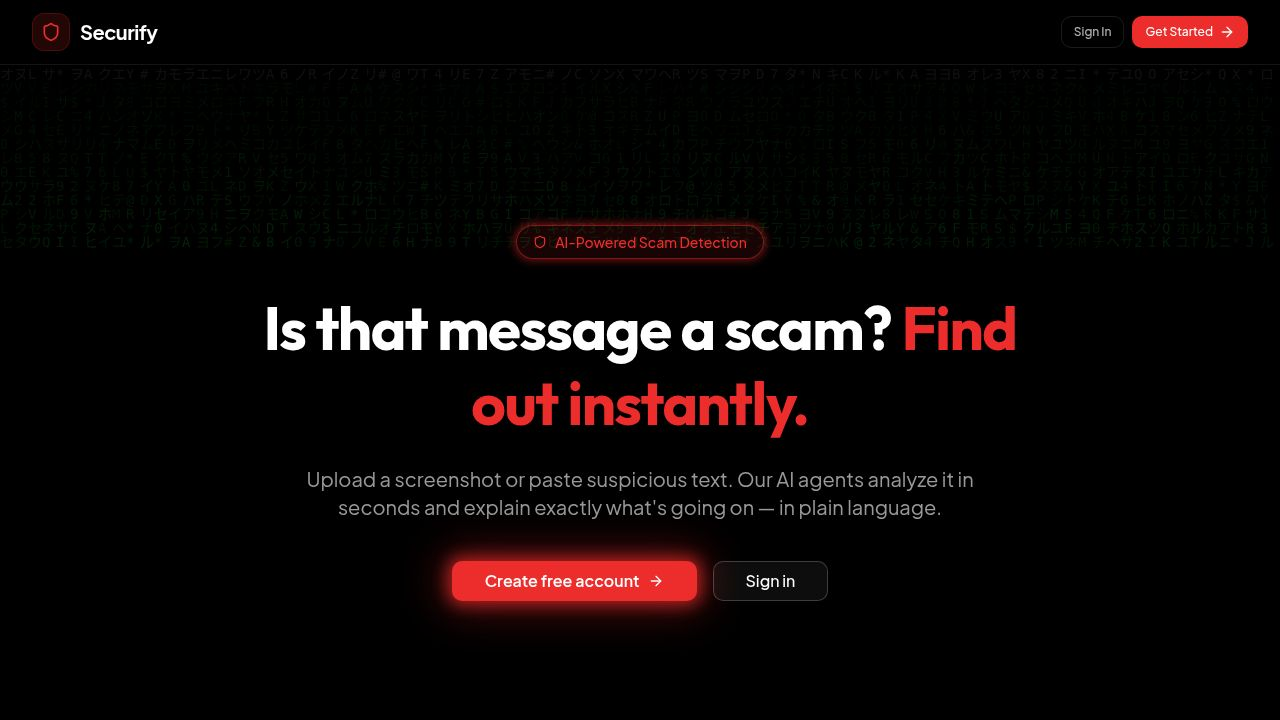
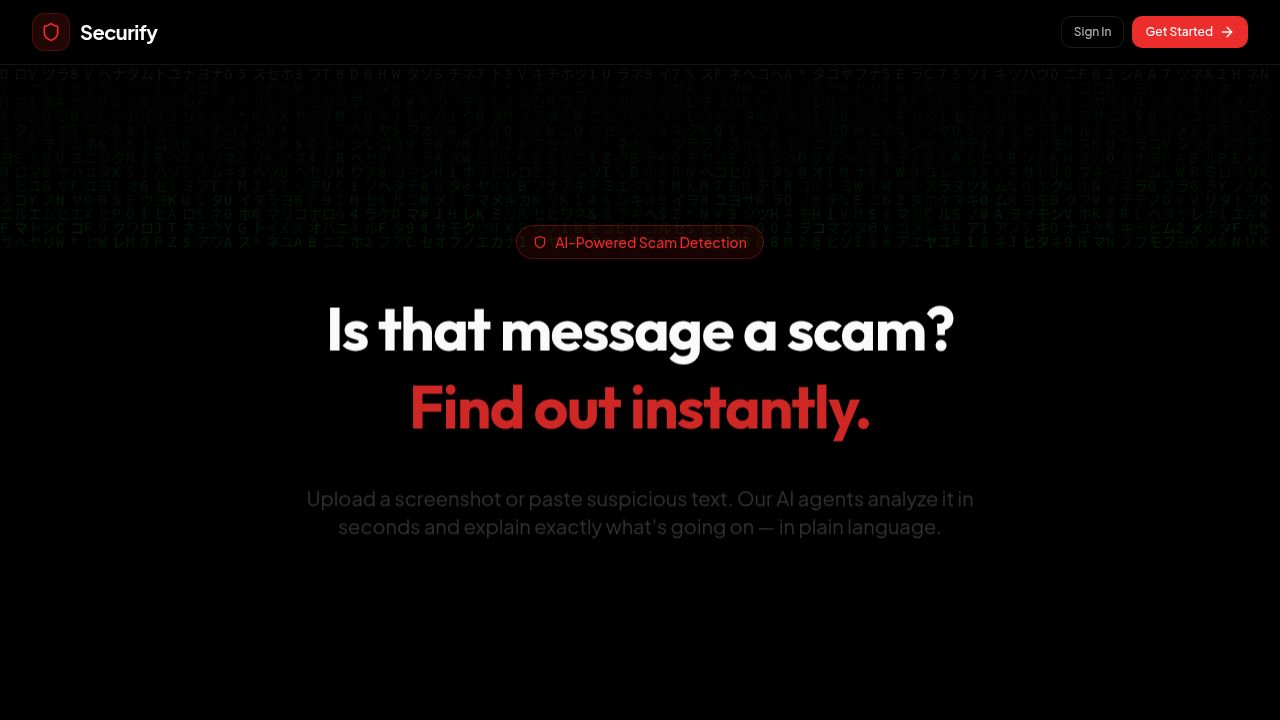
feat: animate hero headline text for dramatic first impression
Task: Animate the hero headline text for a more dramatic first impression

## What was done
- Added @keyframes hero-fade-up animation in artifacts/securify/src/index.css
  - Fades in from opacity 0 with a 28px upward translate
  - Uses a snappy cubic-bezier(0.22, 1, 0.36, 1) easing for a cinematic feel
- Added .hero-anim utility class applying the 0.75s animation with `both` fill-mode
- Respected prefers-reduced-motion: disabled for .hero-anim, .badge-glow.hero-anim, .cta-glow, and .badge-glow
- Updated artifacts/securify/src/pages/landing.tsx hero section:
  - Split h1 into two block spans so each line animates independently
  - Applied staggered animationDelay values to 5 elements:
    - Badge: 0s
    - H1 line 1 ("Is that message a scam?"): 0.18s
    - H1 line 2 ("Find out instantly."): 0.36s
    - Subtitle paragraph: 0.56s
    - CTA button row: 0.74s

## Fix after code review
- The badge element has both badge-glow and hero-anim classes; since both set the
  `animation` shorthand, hero-anim was overriding badge-glow-pulse
- Added .badge-glow.hero-anim rule combining both animations (hero-fade-up +
  badge-glow-pulse delayed by 0.75s so pulse starts after entrance finishes)
- Added .badge-glow.hero-anim to prefers-reduced-motion block to handle higher
  specificity correctly

Replit-Task-Id: c5c1d80e-b9e3-4418-8701-b8a1dbd64e4d

Changed region(s): [[0.25, 0.6417, 0.75, 0.8861], [0.1875, 0.4278, 0.8125, 0.6111], [0.375, 0.3056, 0.5938, 0.3667]]

diff --git a/artifacts/securify/src/pages/landing.tsx b/artifacts/securify/src/pages/landing.tsx
@@ -83,18 +83,18 @@ export function Landing() {
           </div>
           <div className="absolute inset-0 z-[1] bg-gradient-to-b from-black/60 via-black/40 to-black" />
           <div className="relative z-[2] container mx-auto px-4 md:px-8 py-28 md:py-40 text-center max-w-4xl">
-            <div className="badge-glow inline-flex items-center gap-2 bg-primary/10 border border-primary/30 text-primary text-sm font-medium px-4 py-1.5 rounded-full mb-8">
+            <div className="hero-anim badge-glow inline-flex items-center gap-2 bg-primary/10 border border-primary/30 text-primary text-sm font-medium px-4 py-1.5 rounded-full mb-8" style={{ animationDelay: "0s" }}>
               <Shield className="h-3.5 w-3.5" />
               AI-Powered Scam Detection
             </div>
             <h1 className="text-4xl md:text-6xl font-display font-black tracking-tight mb-6 leading-tight text-white drop-shadow-lg">
-              Is that message a scam?{" "}
-              <span className="text-primary">Find out instantly.</span>
+              <span className="hero-anim block" style={{ animationDelay: "0.18s" }}>Is that message a scam?</span>
+              <span className="hero-anim block text-primary" style={{ animationDelay: "0.36s" }}>Find out instantly.</span>
             </h1>
-            <p className="text-xl text-white/60 mb-10 max-w-2xl mx-auto">
+            <p className="hero-anim text-xl text-white/60 mb-10 max-w-2xl mx-auto" style={{ animationDelay: "0.56s" }}>
               Upload a screenshot or paste suspicious text. Our AI agents analyze it in seconds and explain exactly what's going on — in plain language.
             </p>
-            <div className="flex flex-col sm:flex-row gap-4 justify-center">
+            <div className="hero-anim flex flex-col sm:flex-row gap-4 justify-center" style={{ animationDelay: "0.74s" }}>
               <Link href="/sign-up">
                 <Button size="lg" className="cta-glow gap-2 text-base px-8 bg-primary hover:bg-primary/90 text-white border-primary/70 font-semibold">
                   Create free account

diff --git a/artifacts/securify/src/index.css b/artifacts/securify/src/index.css
@@ -251,9 +251,30 @@
   border-color: hsl(0 84% 55% / 0.35);
 }
 
+.badge-glow.hero-anim {
+  animation: hero-fade-up 0.75s cubic-bezier(0.22, 1, 0.36, 1) both, badge-glow-pulse 2.5s 0.75s ease-in-out infinite;
+}
+
+@keyframes hero-fade-up {
+  from {
+    opacity: 0;
+    transform: translateY(28px);
+  }
+  to {
+    opacity: 1;
+    transform: translateY(0);
+  }
+}
+
+.hero-anim {
+  animation: hero-fade-up 0.75s cubic-bezier(0.22, 1, 0.36, 1) both;
+}
+
 @media (prefers-reduced-motion: reduce) {
   .cta-glow,
-  .badge-glow {
+  .badge-glow,
+  .badge-glow.hero-anim,
+  .hero-anim {
     animation: none;
   }
 
